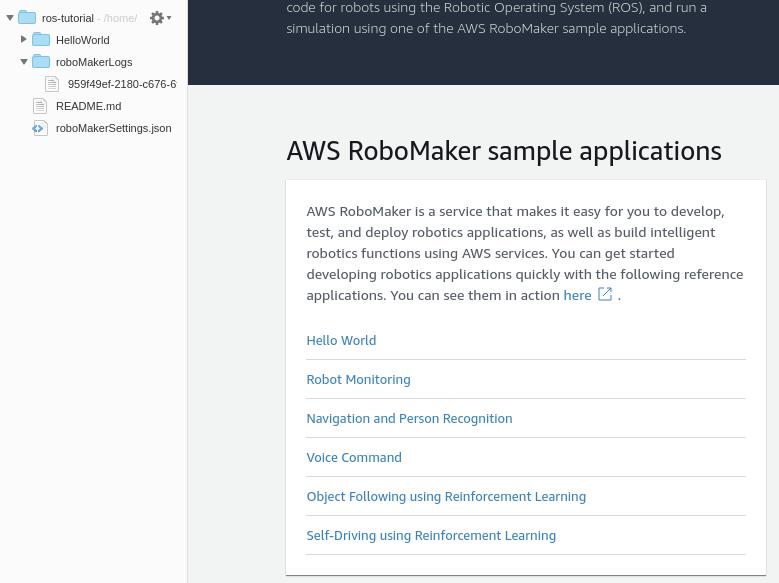
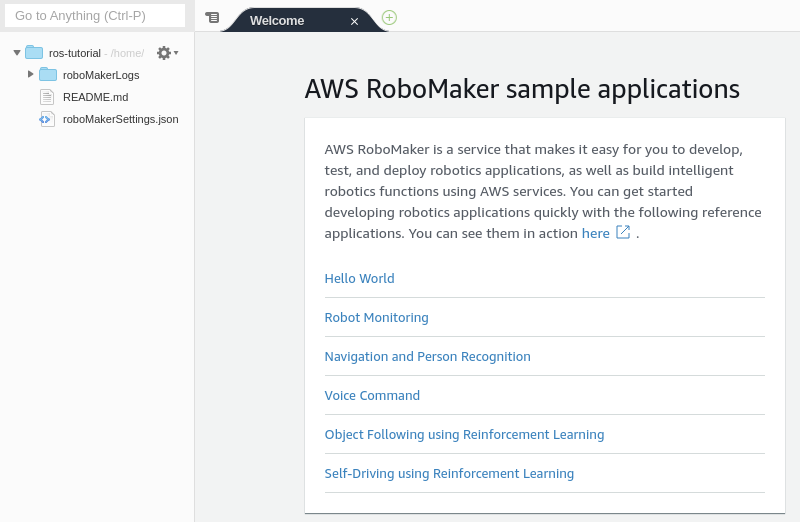
updated post

diff --git a/.blog/README.md b/.blog/README.md
@@ -66,9 +66,9 @@ Navigate to the developer [IDE section in AWS RoboMaker](https://console.aws.ama
 
 ![Cloud9 RoboMaker Environment](img/robomaker-environment-01.png)
 
-Once the environment starts up we're just going to open an example project by clicking "Hello World". You will begin to see a download occuring pulling down the sample project; and once complete you will be presented with a `README`.
+Once the environment starts up we're just going to open an example project by clicking "Robot Monitoring". You will begin to see a download occuring pulling down the sample project; and once complete you will be presented with a `README`.
 
-![Cloud9 RoboMaker Environment Hello World Project](img/robomaker-environment-02.png)
+![Cloud9 RoboMaker Environment CloudWatch Project](img/robomaker-environment-02.png)
 
 ```bash
 sudo apt-get update
@@ -77,10 +77,12 @@ rosdep update
 
 ### Build & Bundle
 
-To build and bundle up the sample repository, you can follow the commands listed in the `README` provided. Alternatively just run the following.
+#### x86_64
+
+Building and bundling for x86_64 is really easy since we're already on an x86_64 system architecture.
 
 ```bash
-cd ~/environment/HelloWorld/robot_ws
+cd ~/environment/CloudWatch/robot_ws
 rosws update
 rosdep install --from-paths src --ignore-src -r -y
 colcon build
@@ -89,15 +91,49 @@ colcon build
 We will use Colcon to build and bundle our robot application
 
 ```bash
-cd ~/environment/HelloWorld/robot_ws
+cd ~/environment/CloudWatch/robot_ws
 source install/local_setup.sh
 colcon bundle
 ```
 
+#### armhf
+
+Since we're trying to build for the Raspberry Pi we need to make sure we're cross compiling for `armhf`. Start off by building the cross-compile docker image (this step will take a while)
+
+```bash
+cd /opt/robomaker/cross-compilation-dockerfile/
+sudo bin/build_image.bash
+```
+
+Connect to the `ros-cross-compile` container
+
+```bash
+cd ~/environment/CloudWatch/robot_ws
+sudo docker run -v $(pwd):/ws -it ros-cross-compile:armhf
+```
+
+Now you're inside the cross-compilation docker container. Run the following commands to build the workspace
+
+```bash
+# build the workspace
+cd ws
+apt update
+rosdep install --from-paths src --ignore-src -r -y
+
+# These steps will take a while
+colcon build --build-base armhf_build --install-base armhf_install
+colcon bundle --build-base armhf_build --install-base armhf_install --bundle-base armhf_bundle --apt-sources-list /opt/cross/apt-sources.yaml
+
+# Exit container
+exit
+```
+
+### Copy Bundle to S3
+
 Copy the bundle to our S3 bucket using the following command
 
 ```bash
-aws s3 cp bundle/output.tar s3://BUCKET_NAME/hello_world_robot/output.tar
+aws s3 cp bundle/output.tar s3://BUCKET_NAME/cloudwatch_robot/output.tar
 ```
 
 ## RoboMaker App Deploy
@@ -106,3 +142,9 @@ aws s3 cp bundle/output.tar s3://BUCKET_NAME/hello_world_robot/output.tar
 cd aws
 robomaker-app.sh
 ```
+
+## Cleanup
+
+Before walking away from the project, make sure to remove the things we setup (esspecially the Cloud9 Environment). This can be done from the [RoboMaker Environments section of the portal](https://console.aws.amazon.com/robomaker/home?region=us-east-1#ides)
+
+![Cloud9 Remove Environment](img/robomaker-environment-03.png)
